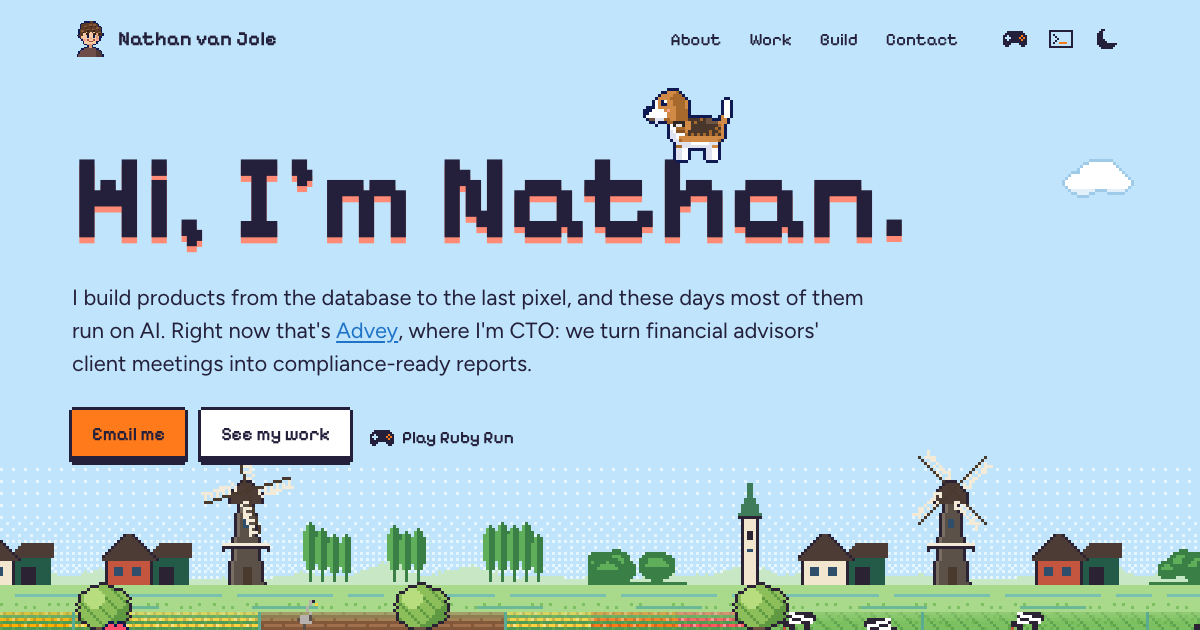
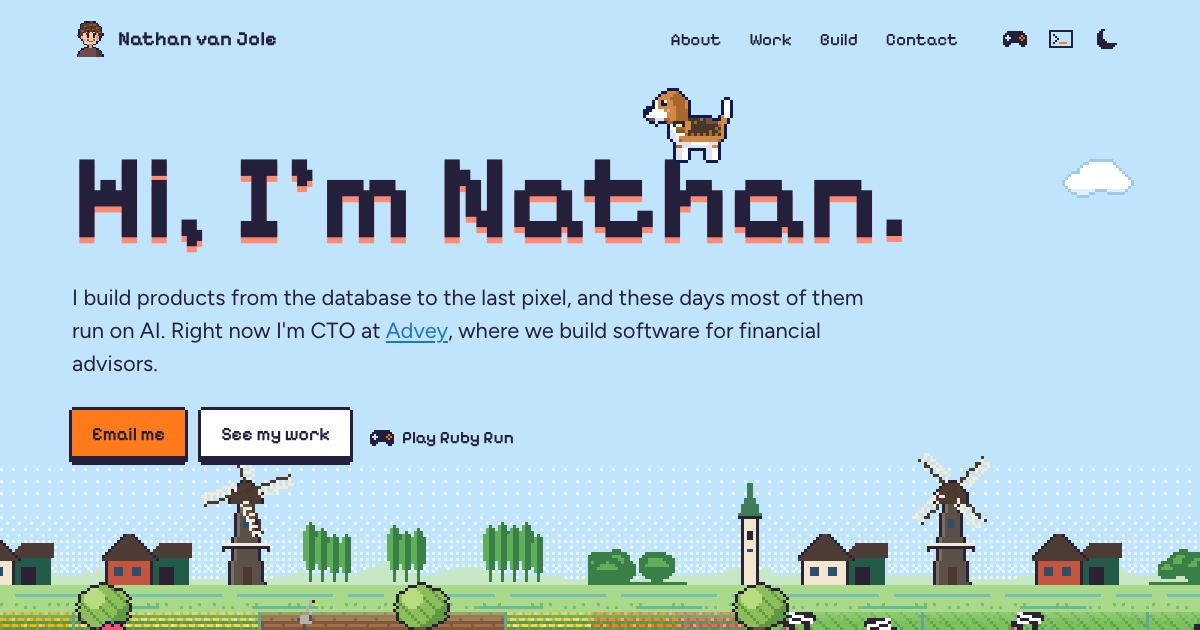
Plainer hero line
"Right now I'm CTO at Advey, where we build software for financial
advisors." instead of the pitch, and "structured reports" instead of
"compliance-ready" in the Advey entry and the answers. The link preview
shows the new line.

diff --git a/src/content/home.ts b/src/content/home.ts
@@ -9,7 +9,7 @@ import type { Ability, AskQuestion, Link, Rich, WorkEntry } from './types';
 // ------------------------------------------------------------------ hero
 export const hero = {
   title: "Hi, I'm Nathan.",
-  lede: "I build products from the database to the last pixel, and these days most of them run on AI. Right now that's [Advey](https://advey.ai), where I'm CTO: we turn financial advisors' client meetings into compliance-ready reports." as Rich,
+  lede: "I build products from the database to the last pixel, and these days most of them run on AI. Right now I'm CTO at [Advey](https://advey.ai), where we build software for financial advisors." as Rich,
   actions: [
     { label: 'Email me', href: 'mailto:hi@nathanvj.com' },
     { label: 'See my work', href: '#work' },
@@ -57,7 +57,7 @@ export const work = {
       location: 'The Netherlands',
       current: true,
       description:
-        'An AI platform that records and transcribes client meetings for financial advisors, then turns them into structured, compliance-ready reports. "You became an advisor, not a note-taker."',
+        'An AI platform that records and transcribes client meetings for financial advisors, then turns them into structured reports. "You became an advisor, not a note-taker."',
       highlights: [
         'Technical vision, architecture and product engineering, from idea to production',
         'The AI pipeline, from recorded meeting to finished report',
@@ -153,7 +153,7 @@ export const build = {
         id: 'advey',
         question: 'What are you building at Advey?',
         answer:
-          'Advey records and transcribes client meetings for financial advisors, then turns them into structured, compliance-ready reports. As CTO I own the architecture and the AI pipeline, from speech to the final report.',
+          'Advey records and transcribes client meetings for financial advisors, then turns them into structured reports. As CTO I own the architecture and the AI pipeline, from speech to the final report.',
       },
       {
         id: 'reliable',
